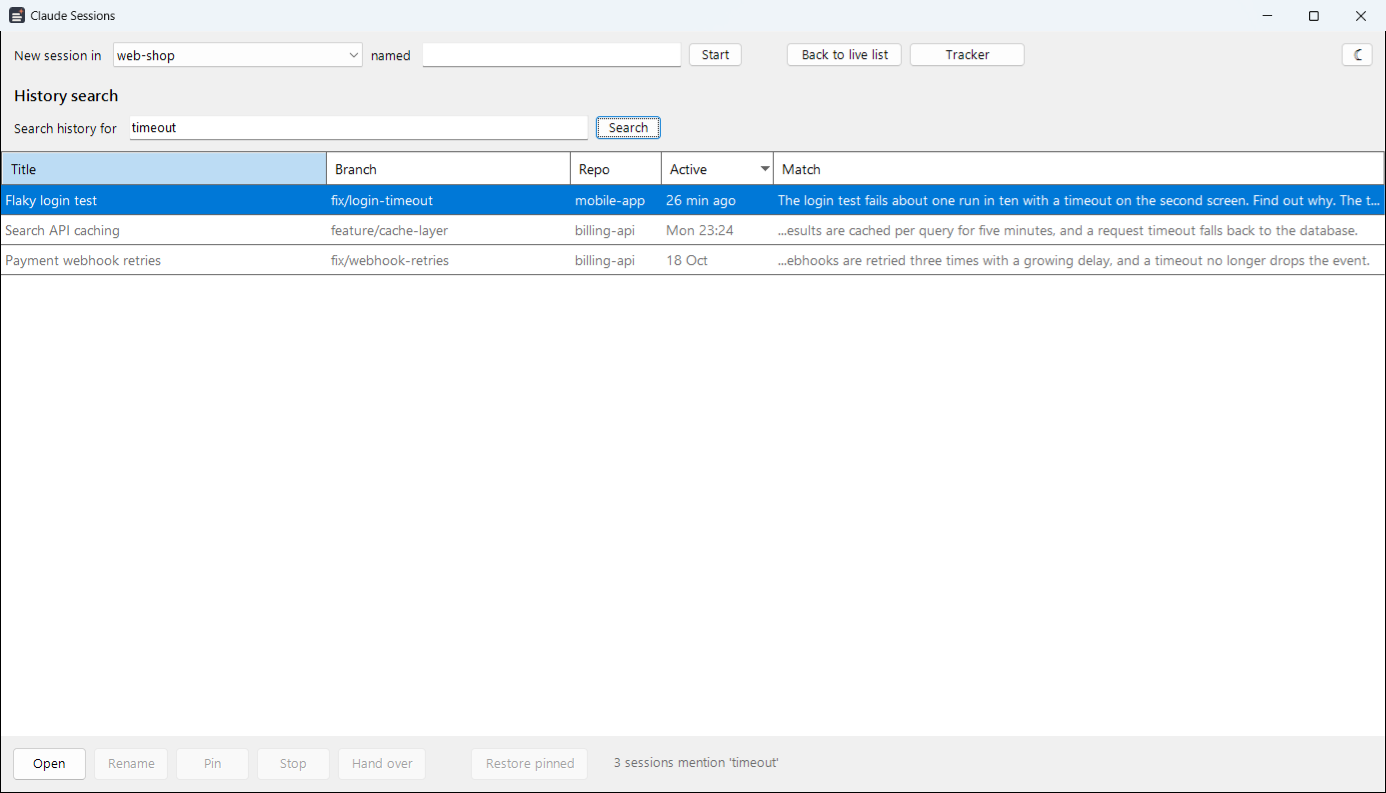
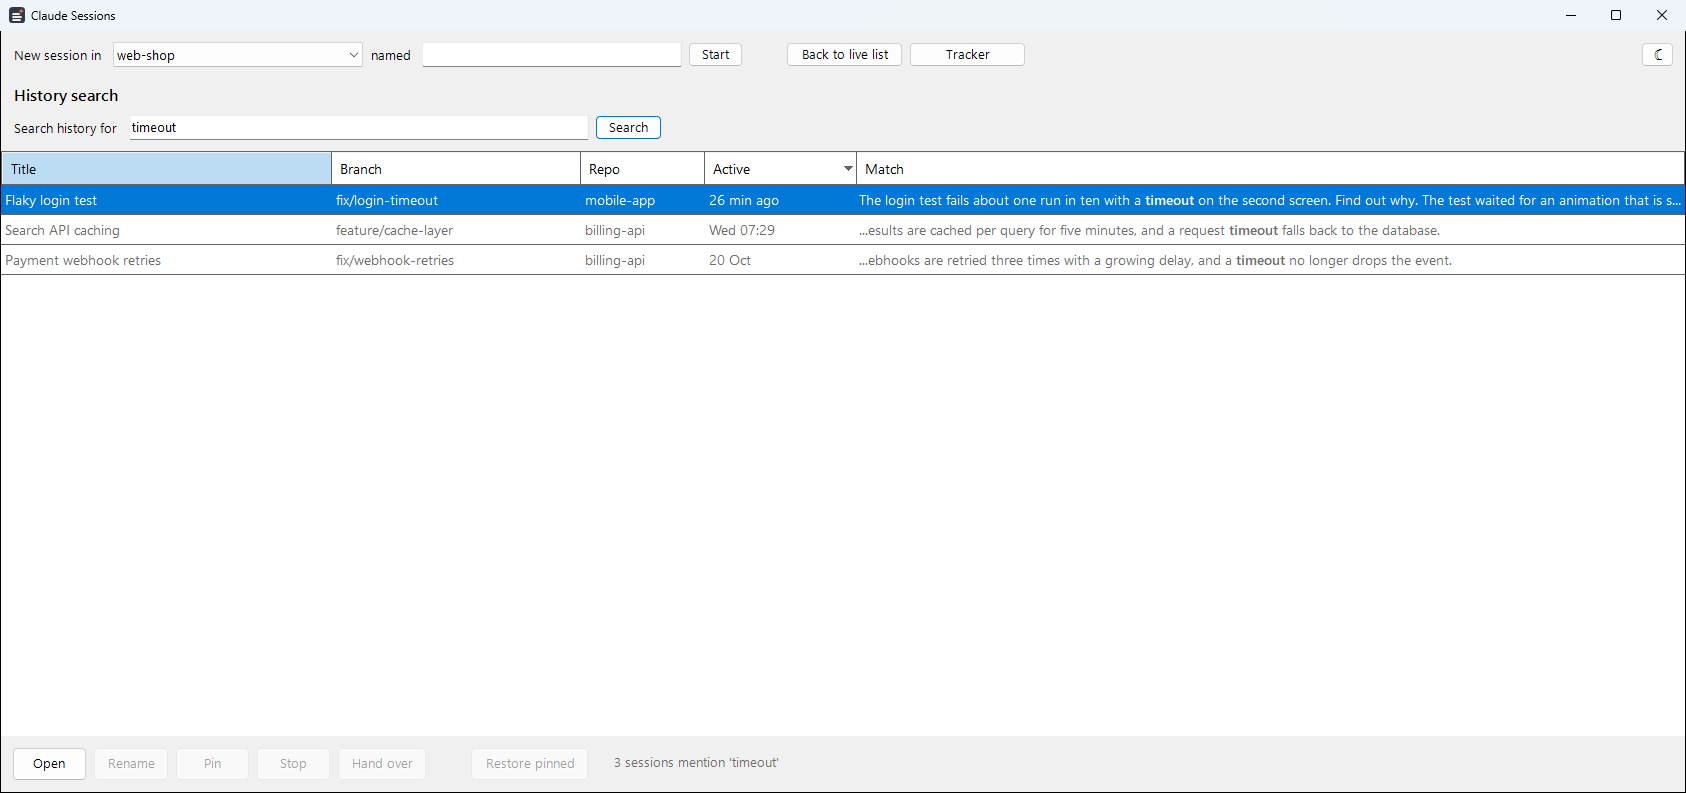
Last reply column for any reply style, and the README screenshots.

diff --git a/README.md b/README.md
@@ -61,9 +61,10 @@ install until you run the installer again.
 ## The window
 
 The window lists running sessions first, most recently active on top, then pinned sessions that are not running (greyed). It
-refreshes every 10 seconds while it is not minimized. Header clicks sort; hover a title for the session's last prompt and ID. It
-is light or dark as the Windows app mode is (Settings > Personalization > Colors) until you switch it with its own button; dark
-needs PowerShell 7.5 or later, and on 7.4 the window is always light and has no switch.
+refreshes every 10 seconds while it is not minimized. **Last reply** shows the opening paragraph of Claude's latest reply. Header
+clicks sort; hover a title for the session's last prompt and ID. It is light or dark as the Windows app mode is (Settings >
+Personalization > Colors) until you switch it with its own button; dark needs PowerShell 7.5 or later, and on 7.4 the window is
+always light and has no switch.
 
 | Action | How |
 | --- | --- |
@@ -253,9 +254,9 @@ Everything the tool keeps is in `%LOCALAPPDATA%\ClaudeSessions\`:
   tab when you click or type the matching action. Stop ends the session's process, or runs `claude stop` for a background
   session. Hand over also runs `claude -p --resume` in the session's folder, which adds the handover turn to the old
   conversation.
-- **Reads** the end of each session's transcript under `~\.claude\projects\` (the last 256 KB, up to 4 MB when the title is
-  further back) for its title, branch, last prompt and context size, and for search the whole transcript, once per change. It
-  never writes there. If you have a [task tracker](#optional-task-tracker), it reads its files too, and never writes them.
+- **Reads** the end of each session's transcript under `~\.claude\projects\` (the last 256 KB, up to 4 MB when the title or reply
+  is further back) for its title, branch, last prompt, last reply and context size, and for search the whole transcript, once per
+  change. It never writes there. If you have a [task tracker](#optional-task-tracker), it reads its files too, and never writes them.
 - **Writes** only its own files in `%LOCALAPPDATA%\ClaudeSessions\`, each through a temporary file that replaces the old one, so
   nothing reads a half-written file. The only file it ever removes is a search-cache entry whose transcript Claude Code has
   already deleted, and that goes to the Recycle Bin.
